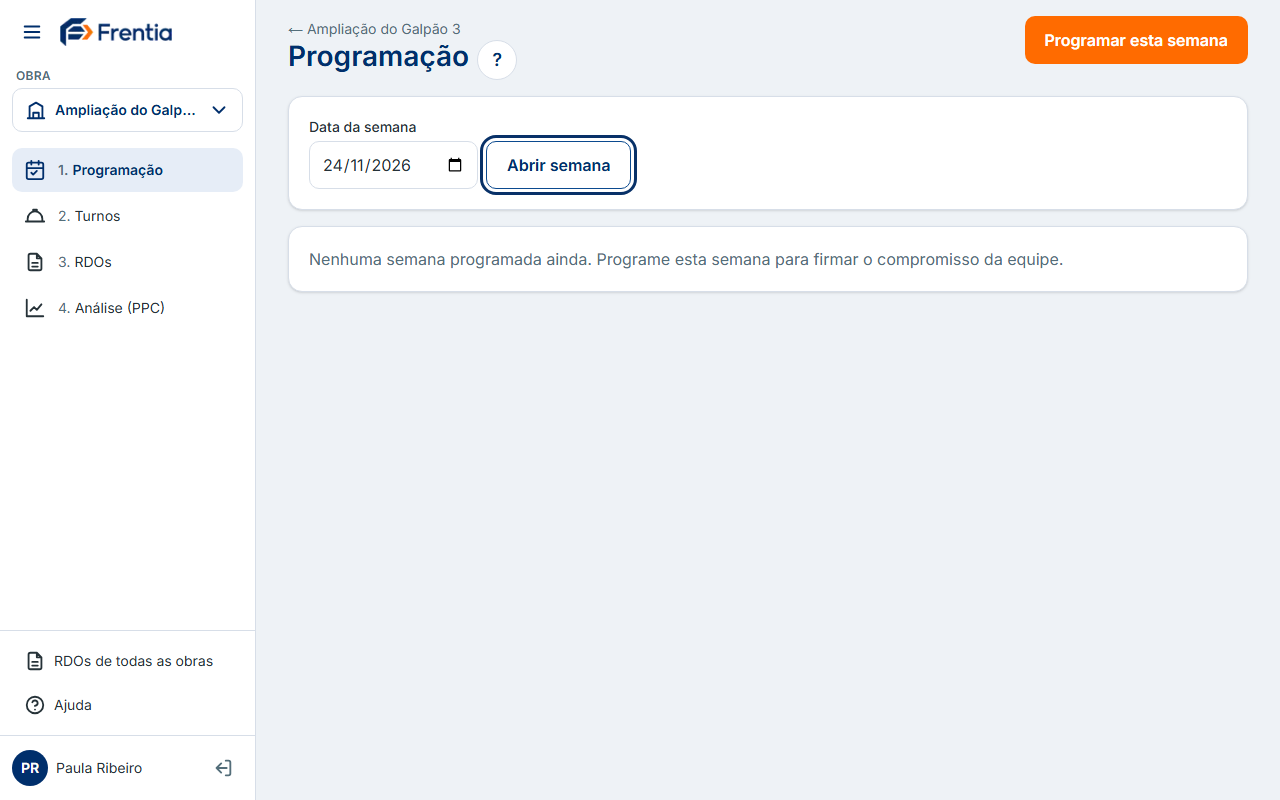
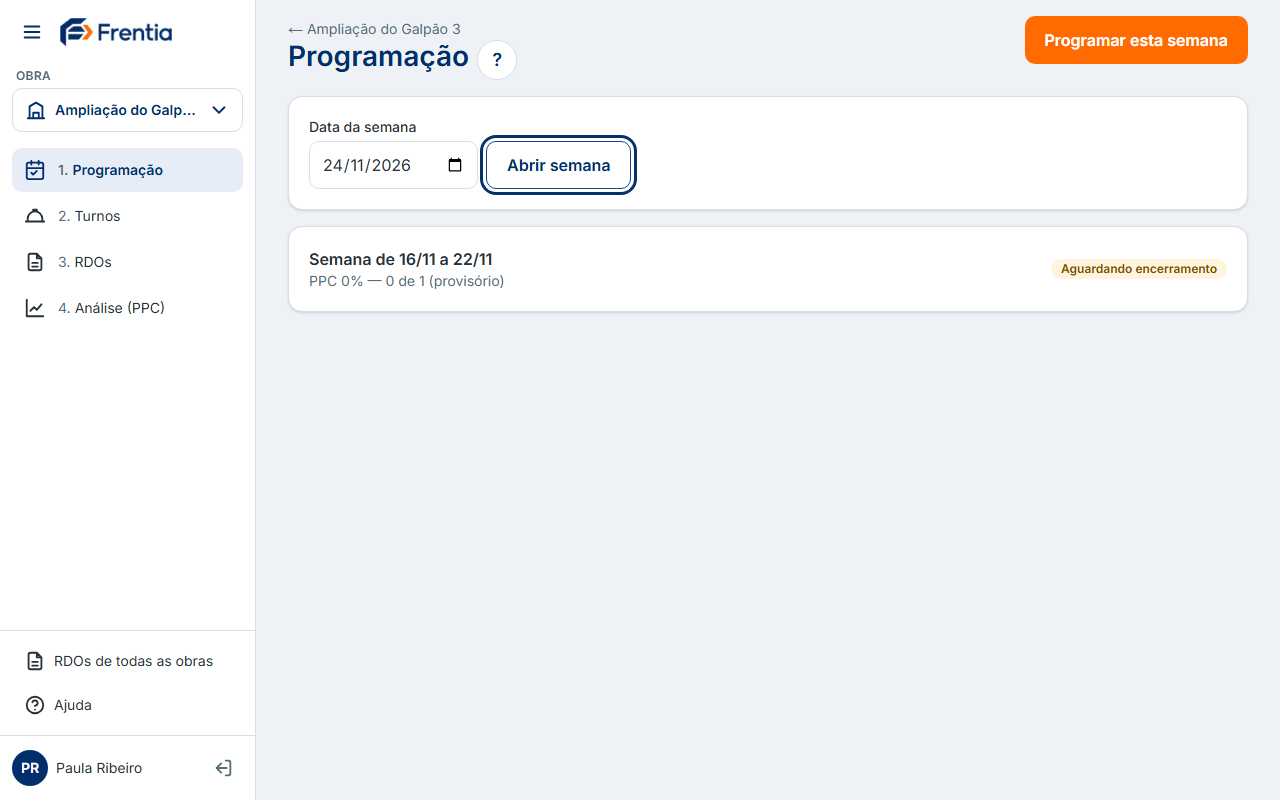
docs(manual): trazer o que ficou da semana anterior (item 1.6)

Changed region(s): [[0.2188, 0.3125, 0.9688, 0.375]]

diff --git a/tests/manual/capturas.spec.ts b/tests/manual/capturas.spec.ts
@@ -1,9 +1,9 @@
 // Roteiro das capturas do manual: monta a obra de exemplo e fotografa cada passo de lib/ajuda/.
 // Rodar: SUPABASE_TEST=1 npm run manual:capturas   (um capítulo só: MANUAL_CAPITULO=check-in ...)
 import { devices, expect, test, type Browser, type Page } from "@playwright/test";
-import { salvarAtividadeProgramada, obterSemana } from "@/lib/db/programacao";
+import { criarRascunho, programarSemana, salvarAtividadeProgramada, obterSemana } from "@/lib/db/programacao";
 import { inicioDaSemana } from "@/lib/dominio/analise";
-import { diaDaSemana, type DiaSemana } from "@/lib/dominio/programacao";
+import { diaDaSemana, somarDias, type DiaSemana } from "@/lib/dominio/programacao";
 import { criarClienteAdmin } from "@/lib/supabase/admin";
 import { criarUsuarioTeste, removerUsuarioTeste, type UsuarioTeste } from "../integracao/ajuda";
 import { fotografar, naoFotografados } from "./fotografar";
@@ -77,12 +77,25 @@ test("capturas do manual", async ({ browser, page: pl, request }) => {
   await expect(pl.getByRole("button", { name: "Gerar novo link" }).first()).toBeVisible();
   await fotografar(pl, "primeiros-passos", "link-quadro");
 
+  // Item 1.6: semana anterior programada com uma atividade que ficou com saldo (aparece em "Trazer").
+  const anterior = await criarRascunho(c, obraId, somarDias(inicio, -7));
+  if (!anterior.ok) throw new Error(anterior.erro);
+  const pintura = await salvarAtividadeProgramada(c, anterior.dados.id, {
+    descricao: "Pintura do galpão", local: "Galpão 2", unidade: "m²", meta: 120, dias: [0, 1, 2, 3, 4], periodo: "diurno",
+    responsavel_id: ids[RESPONSAVEIS[0]], equipe: [{ funcao: "Pintor", quantidade: 3 }],
+  });
+  if (!pintura.ok) throw new Error(pintura.erro);
+  const prog = await programarSemana(c, anterior.dados.id);
+  if (!prog.ok) throw new Error(prog.erro);
+
   // ---------- Programar a semana ----------
   await pl.goto(`${obraUrl}/programacao`);
   await fotografar(pl, "programar-semana", "abrir-programacao");
   await pl.getByLabel("Data da semana").fill(hoje);
   await pl.getByRole("button", { name: "Abrir semana" }).click();
   await pl.waitForURL(`**/programacao/${inicio}`);
+  await expect(pl.getByRole("button", { name: "Trazer" })).toBeVisible();
+  await fotografar(pl, "programar-semana", "trazer-semana-anterior");
   const dias = diasAteHoje(dia);
   await pl.getByLabel("Descrição").fill(ATIVIDADE_NA_TELA.descricao);
   await pl.getByLabel("Local (opcional)").fill(ATIVIDADE_NA_TELA.local);

diff --git a/lib/ajuda/conteudo/programar-semana.ts b/lib/ajuda/conteudo/programar-semana.ts
@@ -36,6 +36,21 @@ export const programarSemana: Capitulo = {
       },
     },
     {
+      id: "trazer-semana-anterior",
+      titulo: "Traga o que ficou da semana anterior",
+      texto: [
+        "No rascunho, o bloco \"Não concluídas da semana anterior\" lista as atividades da semana passada que ficaram com saldo, ex.: \"faltam 20 m² de 120 m²\". Clique em \"Trazer\": o formulário abre já preenchido, com a meta igual ao saldo. Ajuste os dias, o responsável e a meta se precisar e clique em \"Adicionar atividade\". Depois de trazida, a linha mostra \"Trazida ✓\".",
+        "A semana anterior não muda: a atividade continua \"não cumprida\" no PPC dela, com a causa informada.",
+        "Se a semana anterior ainda lançar execução depois que você trouxe (ex.: o turno de sábado), a atividade trazida mostra \"Saldo da semana anterior mudou: era 20 m², agora 12 m²\" e o botão \"Atualizar meta\". Nada muda sozinho: você decide. O botão vale também com a semana já programada, enquanto a atividade ainda não entrou em nenhum turno; depois disso, reabra a semana para mudar a meta.",
+      ],
+      dica: "Atividades em sequência (dia e noite) entram como um item só, com o saldo somado da sequência.",
+      captura: {
+        alt: "Bloco Não concluídas da semana anterior com o saldo e o botão Trazer",
+        alvo: { papel: "button", nome: "Trazer" },
+        dispositivo: "computador",
+      },
+    },
+    {
       id: "continuar-proximo-turno",
       titulo: "Continue a atividade no próximo turno",
       texto: [

diff --git a/lib/ajuda/novidades.ts b/lib/ajuda/novidades.ts
@@ -4,6 +4,11 @@ import type { Novidade } from "./tipos";
 export const NOVIDADES: Novidade[] = [
   {
     data: "2026-11-24",
+    texto: "O que ficou com saldo na semana anterior aparece no rascunho da semana seguinte: \"Trazer\" já preenche a atividade com a meta igual ao saldo. Se a semana anterior ainda lançar depois, o app avisa e oferece \"Atualizar meta\".",
+    href: "/ajuda/programar-semana#trazer-semana-anterior",
+  },
+  {
+    data: "2026-11-24",
     texto: "Check-in mais simples: a equipe se ajusta no \"Editar\" de cada atividade e o botão \"Confirmar\" confirma a atividade e a equipe dela, que já entra no efetivo do responsável. Saiu o quadro \"Efetivo\" separado.",
     href: "/ajuda/check-in#efetivo",
   },
